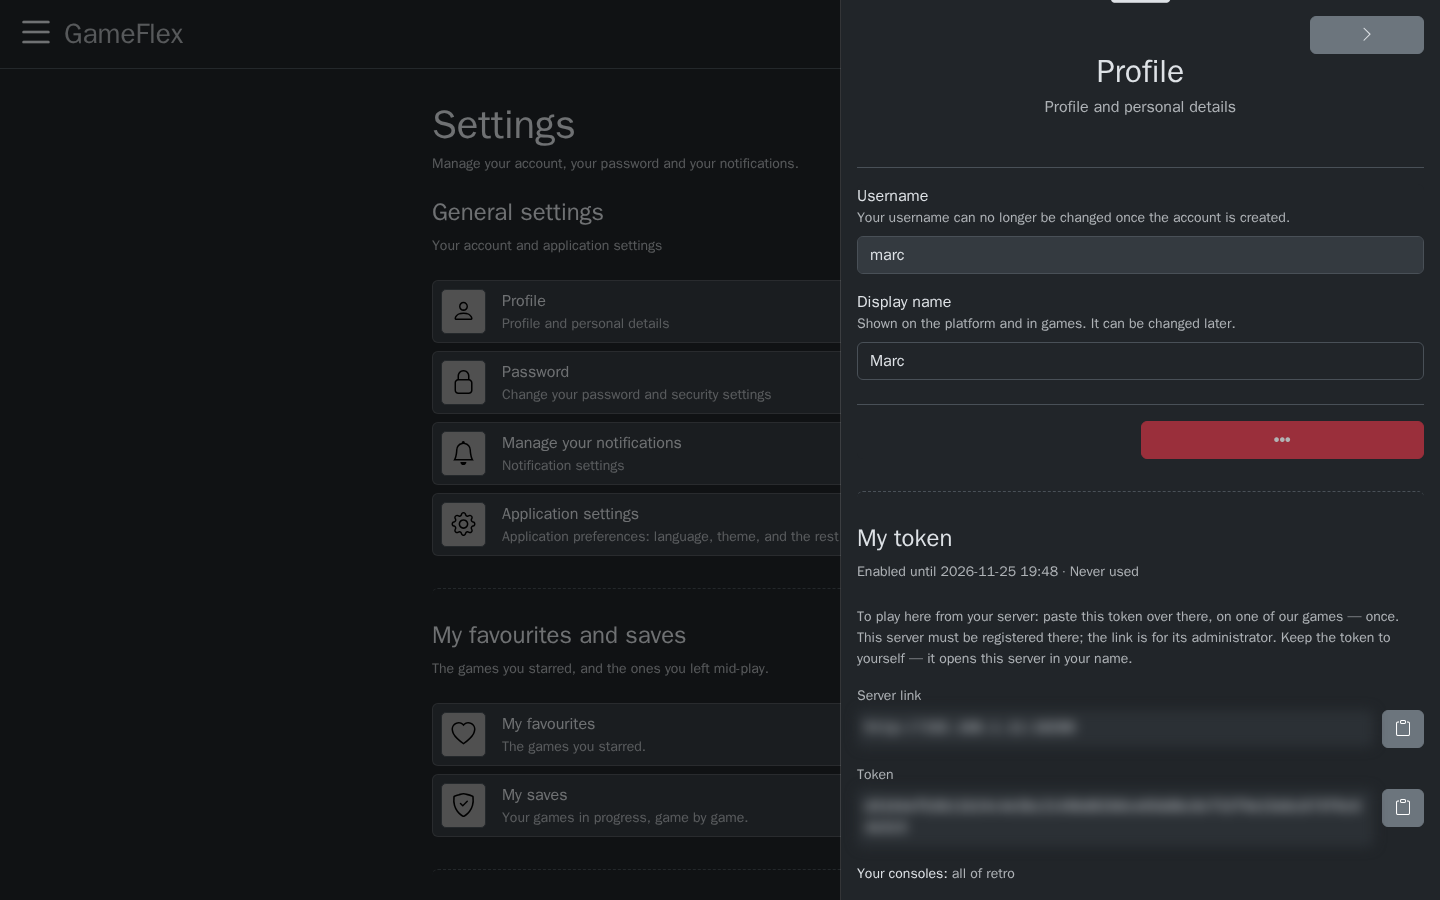
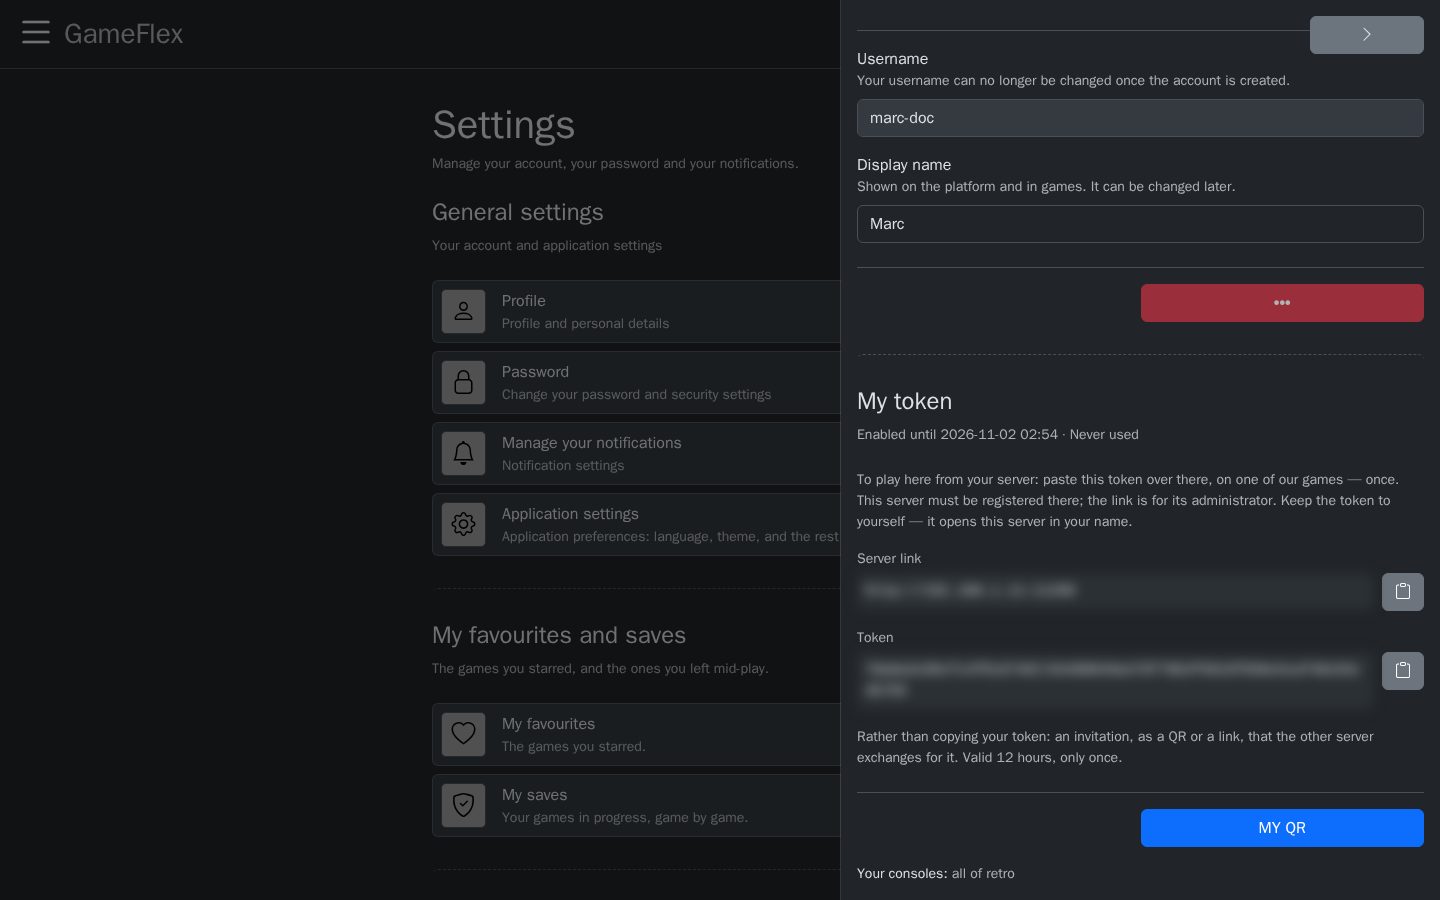
GameFlex v0.6.0

diff --git a/docs/federation.md b/docs/federation.md
@@ -9,6 +9,10 @@ on the other's server.
 - **Access goes through a token**, a long key that an administrator creates for one person. A token
   opens **only the catalog**: games, BIOS files, emulators, patches, emulator settings, and, if you
   choose, your Remote Play consoles. It opens no game session, no save and no administration.
+- **You send an invitation, not the token.** An invitation is a link, also shown as a QR code,
+  that works **once** and for **12 hours**. Your friend's server exchanges it with yours for the
+  token, so the token itself never goes through a messaging app. The old way, sending the link and
+  the token, still works.
 - **Each side decides.** Your friend sees your catalog once you give them a token; you see theirs
   once they give you one. You can revoke a token at any time.
 - **Nothing is replaced.** What you copy from a friend lands in your own library, and never over a
@@ -31,24 +35,39 @@ on the other's server.
 2. In **Who is it for?**, give a name you will recognize, such as *Marc's server*. It is shown next
    to your games on their side, and lets you cut off this access alone.
 3. To also show them your Remote Play consoles, tick **Also share the consoles**.
-4. Press **Create token**.
+4. Press **Create the invitation**.
 
    ![Settings › Federations › Generate a federation token: the name of the person it is for](images/federation-token-create.png)
 
-5. GameFlex shows a **Server link** and a **Token**. Send both to your friend, in a private message.
-   **The token is shown only once:** if it is lost, revoke it and create another.
+5. GameFlex shows the invitation: a **QR code** and its **Invitation link**. Send it to your friend
+   in a private message: **Download the QR** and send the image, **Share**, or copy the link. It
+   works once, within 12 hours; after that, create another one.
 
-   ![The new token: the server link and the token, each with a copy button](images/federation-token-created.png)
+   ![The invitation: its QR code, how long it is valid, its link, Download the QR and Share](images/federation-invitation.png)
+
+Until your friend uses it, the invitation waits under **Pending invitations**, where you can revoke
+it. Once used, it becomes a token of the list below it, with the name you gave.
+
+**The old way:** press **Rather the link and the token** instead of **Create the invitation**.
+GameFlex shows a **Server link** and a **Token**: send both, in a private message. The token is
+shown only once: if it is lost, revoke it and create another.
 
 ## Add a friend's server
 
-1. Ask your friend for their server link and a token (the steps above, on their side).
+1. Ask your friend for an invitation (the steps above, on their side).
 2. In **Settings › Federations**, press **Add a server**.
-3. Fill in a **Display name**, the **URL** they gave you, and the **Access token**.
-4. Press **Save**. GameFlex checks the link and the token right away: their server joins the list,
-   with its processor, memory and graphics card.
+3. On the **Invitation** tab, paste the **Invitation link**, or choose the image of the QR (the one
+   they sent you, or a screenshot of it): GameFlex reads it and fills in the link. A **Display name**
+   is optional.
+4. Press **Save**. Your server exchanges the invitation with theirs for a token, and checks it right
+   away: their server joins the list, with its processor, memory and graphics card.
 
-   ![Add a server: a display name, the link and the token your friend gave you](images/federation-add-server.png)
+   ![Add a server: paste the invitation link, or choose the image of its QR](images/federation-add-server.png)
+
+If they sent you a link and a token instead, fill them in on the **Link and token** tab.
+
+Opened in a browser (by a phone camera, for example), an invitation link shows a page that says
+where to paste it. Opening it uses nothing up.
 
 ## Use their catalog
 
@@ -88,14 +107,17 @@ member of your GameFlex who wants to play there needs their own account over the
 **On your side:**
 
 3. Sign in on your friend's GameFlex page with that account. In **Settings › Profile**, under
-   **My token**, copy the **Token**.
+   **My token**, press **My QR**: GameFlex shows an invitation for your account, valid once within
+   12 hours. Copy its link, or download or share its QR.
 
    ![Settings › Profile › My token, on the friend's server](images/federation-my-token.png)
 
 4. Back on your own GameFlex, open one of their games (their server chosen in **Source**). Under
-   **Play at <their server>**, paste the token and press **Use this token**.
+   **Play at <their server>**, on the **Invitation** tab, paste the link or choose the image of the
+   QR, then press **Use this invitation**. You can also copy the **Token** itself from their
+   **Settings › Profile** and paste it on the **Token** tab.
 
-   ![A friend's game: paste the token of your account over there](images/federation-play-token.png)
+   ![A friend's game: paste the invitation of your account over there](images/federation-play-token.png)
 
 5. The panel now says which account you play under over there. Press **Play**.
 
@@ -119,7 +141,8 @@ GameFlex keeps a copy of their list. When they add games, press the refresh butt
 ## Stop sharing
 
 - **Cut off a friend:** in **Settings › Federations**, find their token and press **Revoke**. Their
-  server immediately loses access to yours.
+  server immediately loses access to yours. An invitation not used yet is revoked the same way,
+  under **Pending invitations**.
 - **Stop a friend playing on your server:** in **Settings › Members**, open their account and press
   **Disable the token**. The games they opened with it stop at once.
 - **Remove a friend's server:** delete it from **Settings › Federations**. What you copied from it
@@ -131,6 +154,11 @@ GameFlex keeps a copy of their list. When they add games, press the refresh butt
 |---|---|
 | *This address did not answer* | The URL, and that their server is reachable from yours (HTTPS proxy, firewall). |
 | Their server refuses your token | The token was revoked or mistyped: ask for a new one. |
+| *This invitation was already used, has expired or was revoked* | Ask for a new one: an invitation works once, within 12 hours. |
+| *This invitation goes elsewhere* | A server invitation goes in **Add a server**, an account one in **Play at…**. It was not used up: paste it in the right place. |
+| *The token of this account is disabled over there* | Ask your friend to enable the token of your account. The invitation was not used up. |
+| *No QR could be read in this image* | Choose a sharper image, or paste the link instead. |
+| *Too many refused invitations* | Wait a few minutes, then try again. |
 | **Play at <their server>** refuses your account token | It was disabled, expired or regenerated: ask your friend to enable it again, then copy it from **Settings › Profile** on their GameFlex. |
 | A game is listed but unavailable there | Your account on their server has no access to this console: they can grant it in **Settings › Members**. |
 | A download says the file already exists | You already have one: delete yours first to take theirs. |

diff --git a/CHANGELOG.md b/CHANGELOG.md
@@ -7,6 +7,52 @@ and this project adheres to [Semantic Versioning](https://semver.org/spec/v2.0.0
 
 ## [Unreleased]
 
+## [0.6.0] - 2026-10-26
+
+### Added
+
+- `GAMEFLEX_STAGING`: a test server writes *staging* next to its name and in the browser tab, and
+  its app download gives the APK it builds itself.
+- **A status for every game**: *Playable*, *Crashes in game*, *Not playable* or *Untested*, shown
+  next to its name, with a filter on the **Games** page and the notes in its panel. Administrators
+  set it in **Settings › Games**, for one game (per emulator, with a note) or for a whole console
+  at once. Friends see your statuses through federation.
+  The Android app has the same, for its own library.
+- **Invitations instead of tokens**: **Generate a federation token** and **Settings › Profile ›
+  My QR** now give an invitation, a link and a QR code that work once, within 12 hours. **Add a
+  server** and **Play at…** accept it, pasted or read from the image of the QR; your server
+  exchanges it with your friend's for the token, which no longer goes through a messaging app.
+  Pending invitations are listed and can be revoked. The link and the token still work, as before.
+- **A 540p stream for weak connections** on the recent consoles (PS3 to PS5, Switch, Wii U, Xbox,
+  Xbox 360): when a screen's network weakens, it moves to a 540p stream at 30 frames per second,
+  and back once the network is stable. The game encodes it only while someone watches it. The game
+  menu's new **Video** category chooses **Automatic**, **Current stream** or **Low quality**; the
+  **Live now** thumbnails always use it.
+- **Join a friend's GameFlex from the Android app**: the home screen's **Join on the network** now
+  has two tabs. **Share** shows your QR code and link, as before; **Join** scans another GameFlex's
+  QR code (Google's reader) or takes its link, checks that a GameFlex answers there, and opens it
+  in the app. **Settings › Back to the app's home screen**, or the Back button, returns to your home
+  screen; the servers you joined stay listed.
+
+### Changed
+
+- **Settings › Download the GameFlex app** now appears on every server, and leads to the GitHub
+  Release unless `GAMEFLEX_STAGING` is set.
+- The Android app's page footer gives its version and build date once, instead of twice.
+- On a phone server, the share and download-through-the-browser buttons are offered only in the
+  phone's own app, no longer to the people who join it.
+
+### Fixed
+
+- After a lost packet, the picture no longer stays damaged until the next keyframe (up to two
+  seconds on the recent consoles and the Android app): the browser's request for a fresh keyframe
+  now reaches the game, which sends one at once.
+
+### Removed
+
+- The **360p** resolution of the stream settings: 540p is now the smallest. A saved 360p choice
+  falls back to the default.
+
 ## [0.5.0] - 2026-10-25
 
 ### Added

diff --git a/docs/install.md b/docs/install.md
@@ -146,6 +146,7 @@ All settings live in `.env`.
 | `GAMEFLEX_MAX_PLAYERS` | no | `4` | Virtual controllers created for a recent console's game, never fewer than the console's own player count. How many play is set per console (see [Consoles](consoles.md)). |
 | `GAMEFLEX_CONSOLE_LIMITS` | no | one of each | How many games of each recent console can run at once, as `console:number` pairs. |
 | `GAMEFLEX_MIRROR_URL` | no | | A mirror for emulators and BIOS files. When set, the settings screens show a link to it. It must be a full `http://` or `https://` address, or GameFlex does not start. |
+| `GAMEFLEX_STAGING` | no | | `1` marks a test server: GameFlex writes *staging* next to its name, and **Settings › Download the GameFlex app** gives the APK this server builds (in `/downloads`) instead of the GitHub Release. Leave empty for a normal server. |
 | `COMPOSE_PROFILES` | no | none | The recent consoles whose images you want, separated by commas: `ps3`, `ps4`, `ps5`, `switch`, `wiiu`, `xbox`, `xbox360`. Add `wireguard` for the optional VPN (see [Play away from home](remote-access.md)). |
 | `GAMEFLEX_NAME` | no | `gameflex` | The name of the containers (`gameflex-kernel`…). Change it only to run a second GameFlex on the same computer, which then also needs other ports: `GAMEFLEX_PORT`, and the fixed ports in `docker-compose.yml`. |
 
@@ -231,6 +232,7 @@ services:
             - GAMEFLEX_MAX_PLAYERS=${GAMEFLEX_MAX_PLAYERS:-4}
             - GAMEFLEX_CONSOLE_LIMITS=${GAMEFLEX_CONSOLE_LIMITS:-switch:1,ps3:1,xbox:1,ps4:1,ps5:1,wiiu:1,xbox360:1}
             - GAMEFLEX_MIRROR_URL=${GAMEFLEX_MIRROR_URL:-}
+            - GAMEFLEX_STAGING=${GAMEFLEX_STAGING:-}
             - GAMEFLEX_RETRO_IMAGE=zinosaure/gameflex-retrogaming:${GAMEFLEX_VERSION:-latest}
             - GAMEFLEX_REMOTEPLAY_IMAGE=zinosaure/gameflex-remoteplay:${GAMEFLEX_VERSION:-latest}
             - GAMEFLEX_PS3_IMAGE=zinosaure/gameflex-ps3:${GAMEFLEX_VERSION:-latest}
@@ -451,6 +453,11 @@ GAMEFLEX_CONSOLE_LIMITS=switch:1,ps3:1,xbox:1,ps4:1,ps5:1,wiiu:1,xbox360:1
 # A mirror where you download emulators and BIOS files yourself. When set,
 # GameFlex shows a link to it in its settings.
 GAMEFLEX_MIRROR_URL=
+
+# A test server: GameFlex writes "staging" next to its name, and its app
+# download gives the APK this server builds instead of the GitHub Release.
+# Leave empty for a normal server.
+GAMEFLEX_STAGING=
 
 # The recent consoles whose images you want, separated by commas: ps3, ps4,
 # ps5, switch, wiiu, xbox, xbox360. Add wireguard for the optional VPN that lets

diff --git a/docs/android.md b/docs/android.md
@@ -46,7 +46,7 @@ The app opens on its home screen, in English, or in French on a phone set to Fre
 | **Storage** | Where your library is, and how much space is left. **Change location** uses another folder: accounts, saves and logs are copied there; games, BIOS files and cores are not. |
 | **Internal disks** | SD cards and USB keys with games. **Add a disk**. |
 | **Accounts** | **Root password** makes a new administrator password. |
-| **Join on the network** | The phone's address, as a QR code and a link, for the people who join you. |
+| **Join on the network** | **Share**: the phone's address, as a QR code and a link, for the people who join you. **Join**: open another GameFlex in the app, by its QR code or its link. |
 | **Launch the app** | **Open** opens GameFlex itself: your games, your settings. |
 
 ## First start
@@ -108,8 +108,18 @@ While the app runs, other devices on **the same Wi-Fi** can join the games of yo
    and press **Request to take control** to play. You accept from your phone.
 
 **To let someone use GameFlex on their own device:** create an account for them in **Settings ›
-Members**. They open the address shown under **Join on the network**, such as `http://192.168.1.40:10200`, or scan its QR code, and sign in. They can then join
-or watch the games in progress from the dashboard.
+Members**. They open the address shown under **Join on the network** › **Share**, such as
+`http://192.168.1.40:10200`, or scan its QR code, and sign in. They can then join or watch the
+games in progress from the dashboard.
+
+**If they have the app too**, they join from it rather than from a browser: on their home screen,
+**Join on the network** › **Join**, then **Scan a QR code** (Google's reader, which needs Google
+Play services and installs itself the first time), or type the link and press **Join**. The app
+checks that a GameFlex answers there, then opens it: they play under their account on your phone,
+as in a browser. To come back to their own home screen: the Back button, or **Settings › Back to
+the app's home screen**. The servers they joined stay listed under **Servers you joined**; **Open**
+brings back their own GameFlex. Someone without the app, or with an iPhone, scans the same QR code
+with the camera and joins in the browser.
 
 Good to know:
 

diff --git a/docs/library.md b/docs/library.md
@@ -136,6 +136,22 @@ GameFlex keeps a list of what your library holds. After you copy files by hand, 
 - or press the refresh button next to the **Source** list, on the Games, Emulators and Firmware
   screens: it refreshes that section only.
 
+## Say which games play
+
+Every game shows a status next to its name: **Playable**, **Crashes in game**, **Not playable**
+or **Untested**, the default. An administrator sets it in **Settings › Games**:
+
+- **a whole console at once**: press **Status of a whole console**, choose the console and the
+  status. Every game of that console takes it, games added later included, except the ones with a
+  status of their own;
+- **one game**: press its line, choose the status, the emulators it applies to (all of them by
+  default) and, if you like, a note such as *crashes in chapter 2*. GameFlex notes the emulator
+  versions in the game's history, which only administrators see.
+
+Players see the status on the **Games** page, can filter the list by status, and read the notes
+in a game's panel. Friends who federate with your server see your statuses too: they tell them what
+plays on your machine.
+
 ## What you should see
 
 - The **Games** page lists your games under their console.
@@ -157,5 +173,7 @@ GameFlex keeps a list of what your library holds. After you copy files by hand, 
   Wii U graphic packs: `patches/wiiu/<pack name>/rules.txt`.
 - **`params/<console>/`** holds emulator settings. Change them from **Settings › Emulator settings**
   rather than by hand: see [Emulator settings](emulator-settings.md).
+- **`status/`** holds the status of your games, one file per console. Change it from
+  **Settings › Games** rather than by hand.
 - **`saves/`**, **`databases/`**, **`logs/`** and **`cache/`** belong to GameFlex. Back them up,
   but don't edit them. **Settings › Cache** shows what the cache holds and lets you clear it.

diff --git a/docs/controllers.md b/docs/controllers.md
@@ -65,6 +65,15 @@ Change them in **Settings › Controllers and devices**, with *Keyboard* as the 
 
 The picture quality (resolution, frame rate, bitrate) is set on the game's page, before **Play**.
 
+**When your network weakens**, the picture drops to a 540p stream at 30 frames per second, and goes
+back once the network has been stable for about thirty seconds. Each screen follows its own network:
+a friend on a weak connection does not lower the picture for the others. In the game menu, **Video**
+› **Stream** chooses: **Automatic** (the default), **Current stream** (always the one the game was
+started with) or **Low quality (540p, 30 fps)**. The thumbnails under **Live now** always use the
+540p stream. This applies to the recent consoles (PS3 to PS5, Switch, Wii U, Xbox, Xbox 360) when
+their stream is above 540p at 30; retro consoles and Remote Play keep a single stream, and so does
+the Android app for now.
+
 ## Play together
 
 How many players share a game depends on the console: four on the Super Nintendo, Nintendo 64,

diff --git a/docs/remote-play.md b/docs/remote-play.md
@@ -31,7 +31,7 @@ Your console shows its state: **Online**, **Standby** or **Offline**.
 
 - **Turn on** wakes it from rest mode.
 - **Play** starts the stream. Choose the picture quality first: 720p at 60 frames per second by
-  default, from 360p to 1080p; **Auto** adapts the bitrate to your connection.
+  default, from 540p to 1080p; **Auto** adapts the bitrate to your connection.
 - **Watch** looks on while someone else plays.
 
 One player holds the controller at a time; the others watch, and the controller can be lent or
